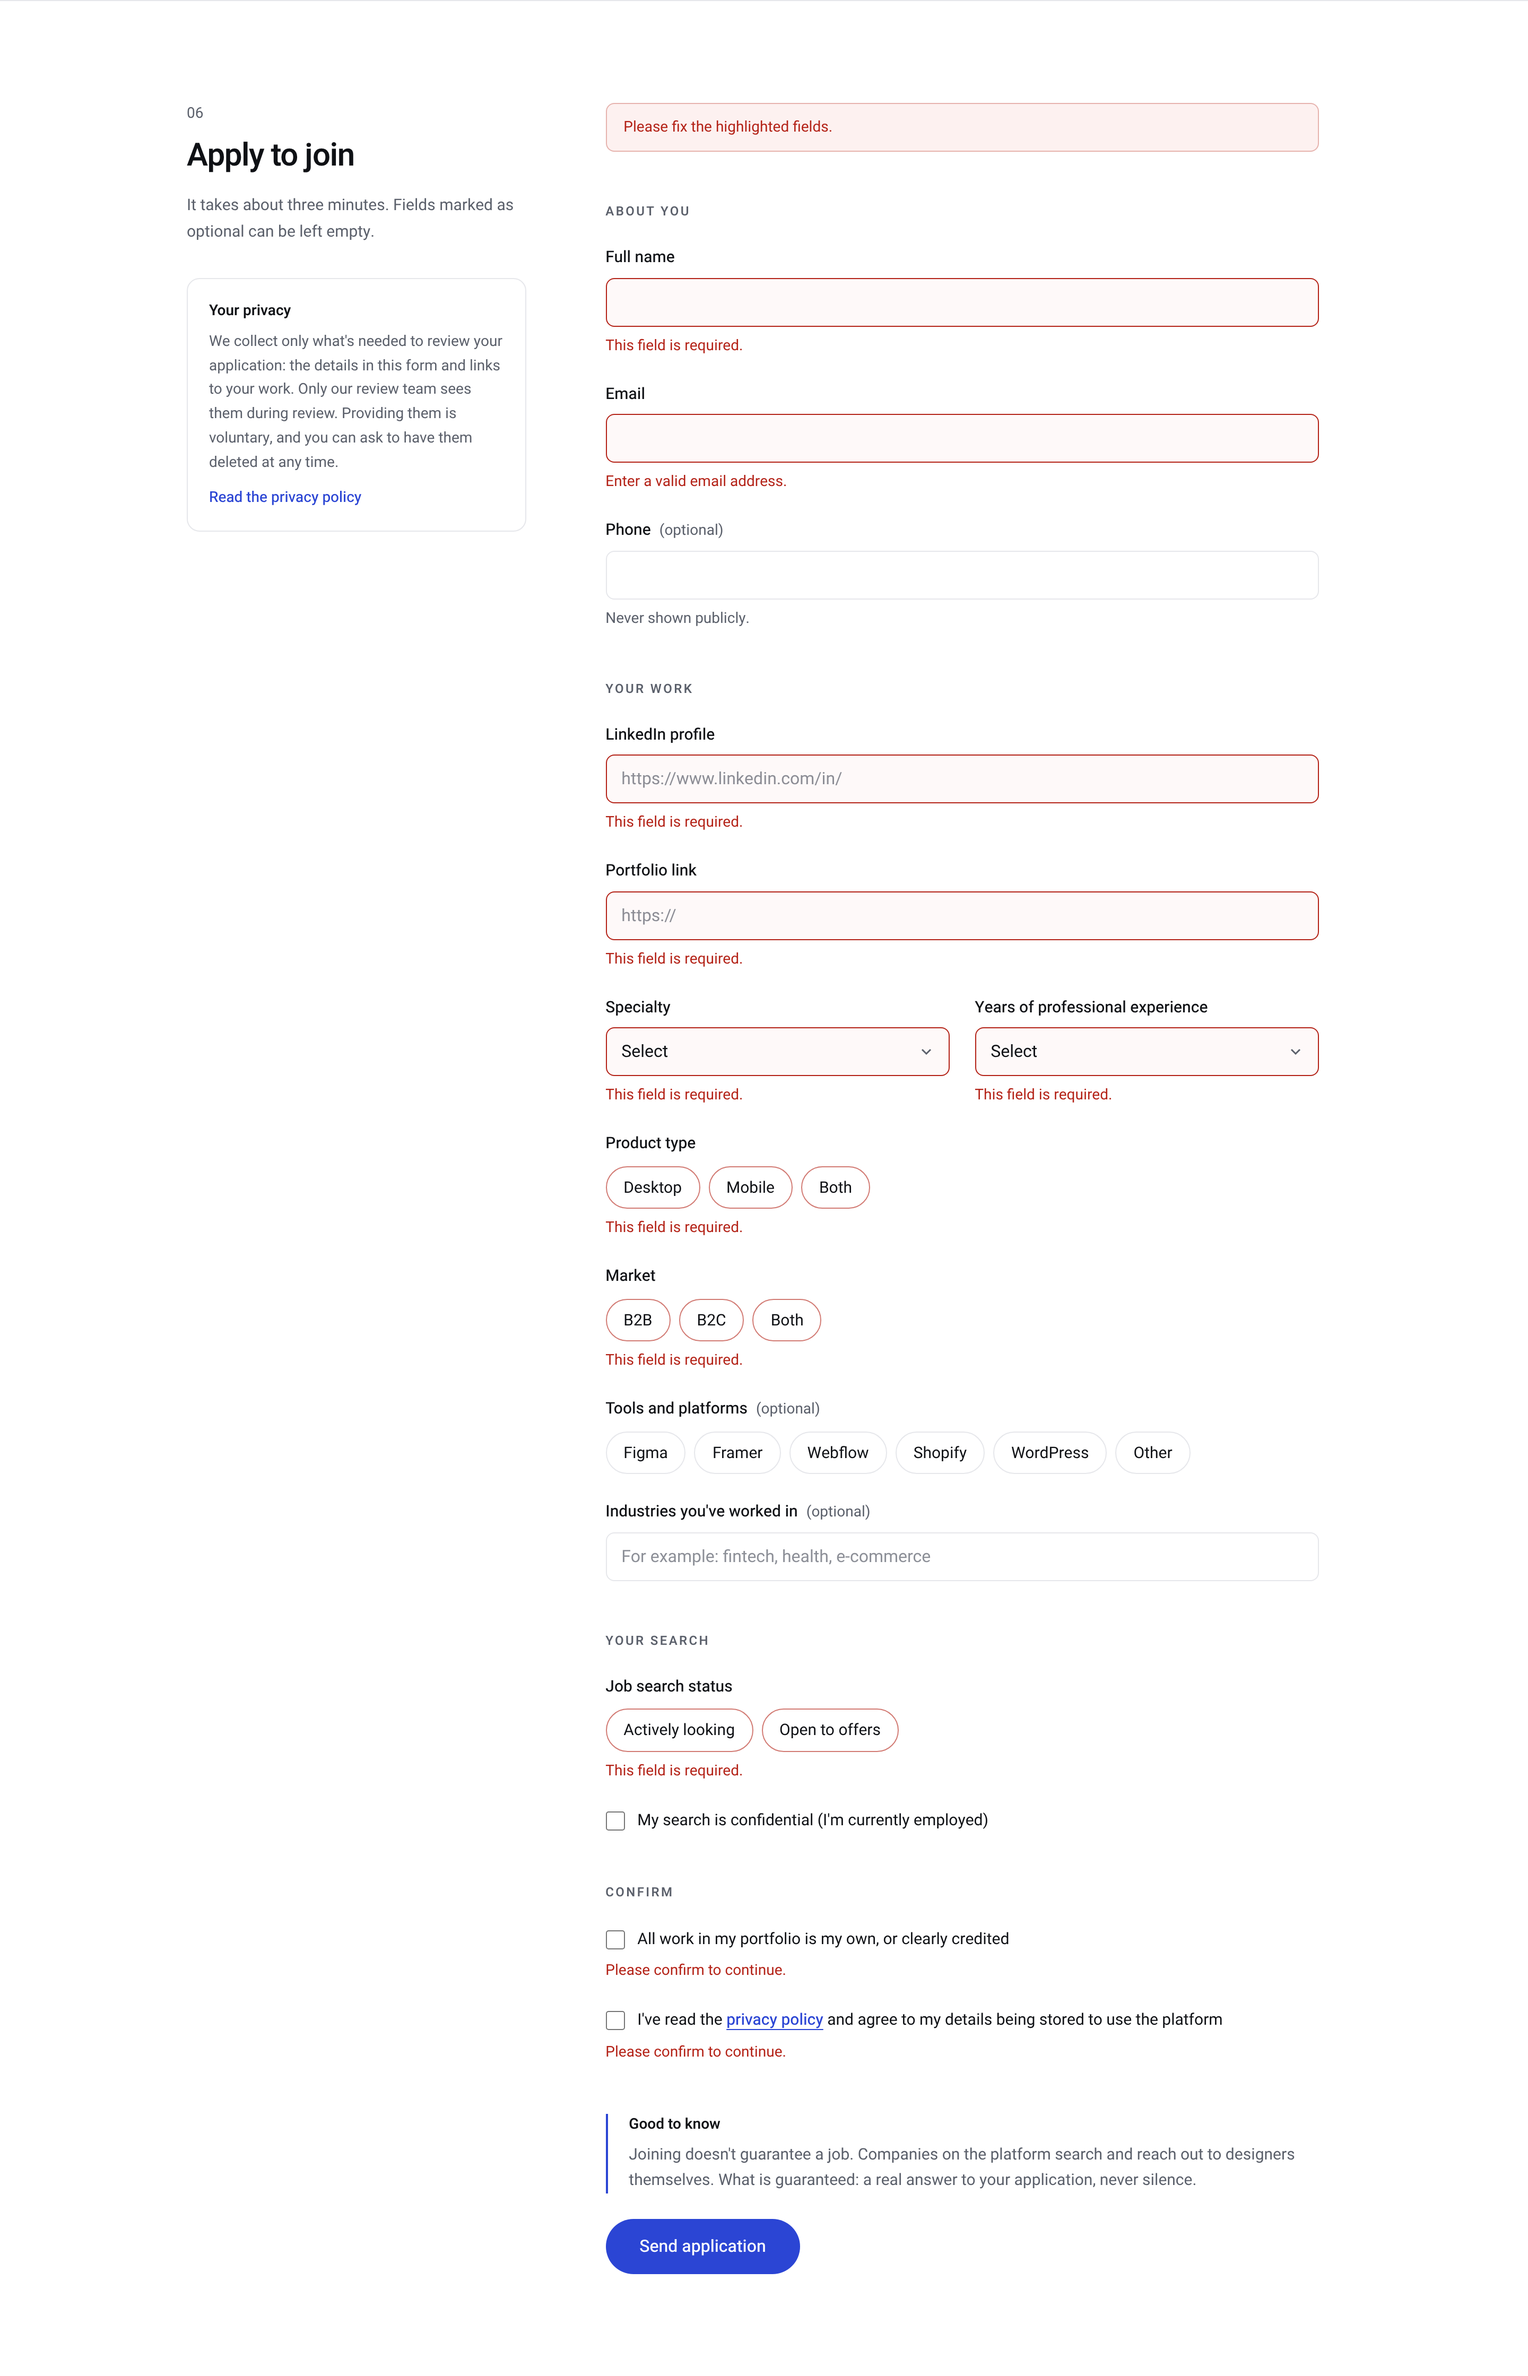
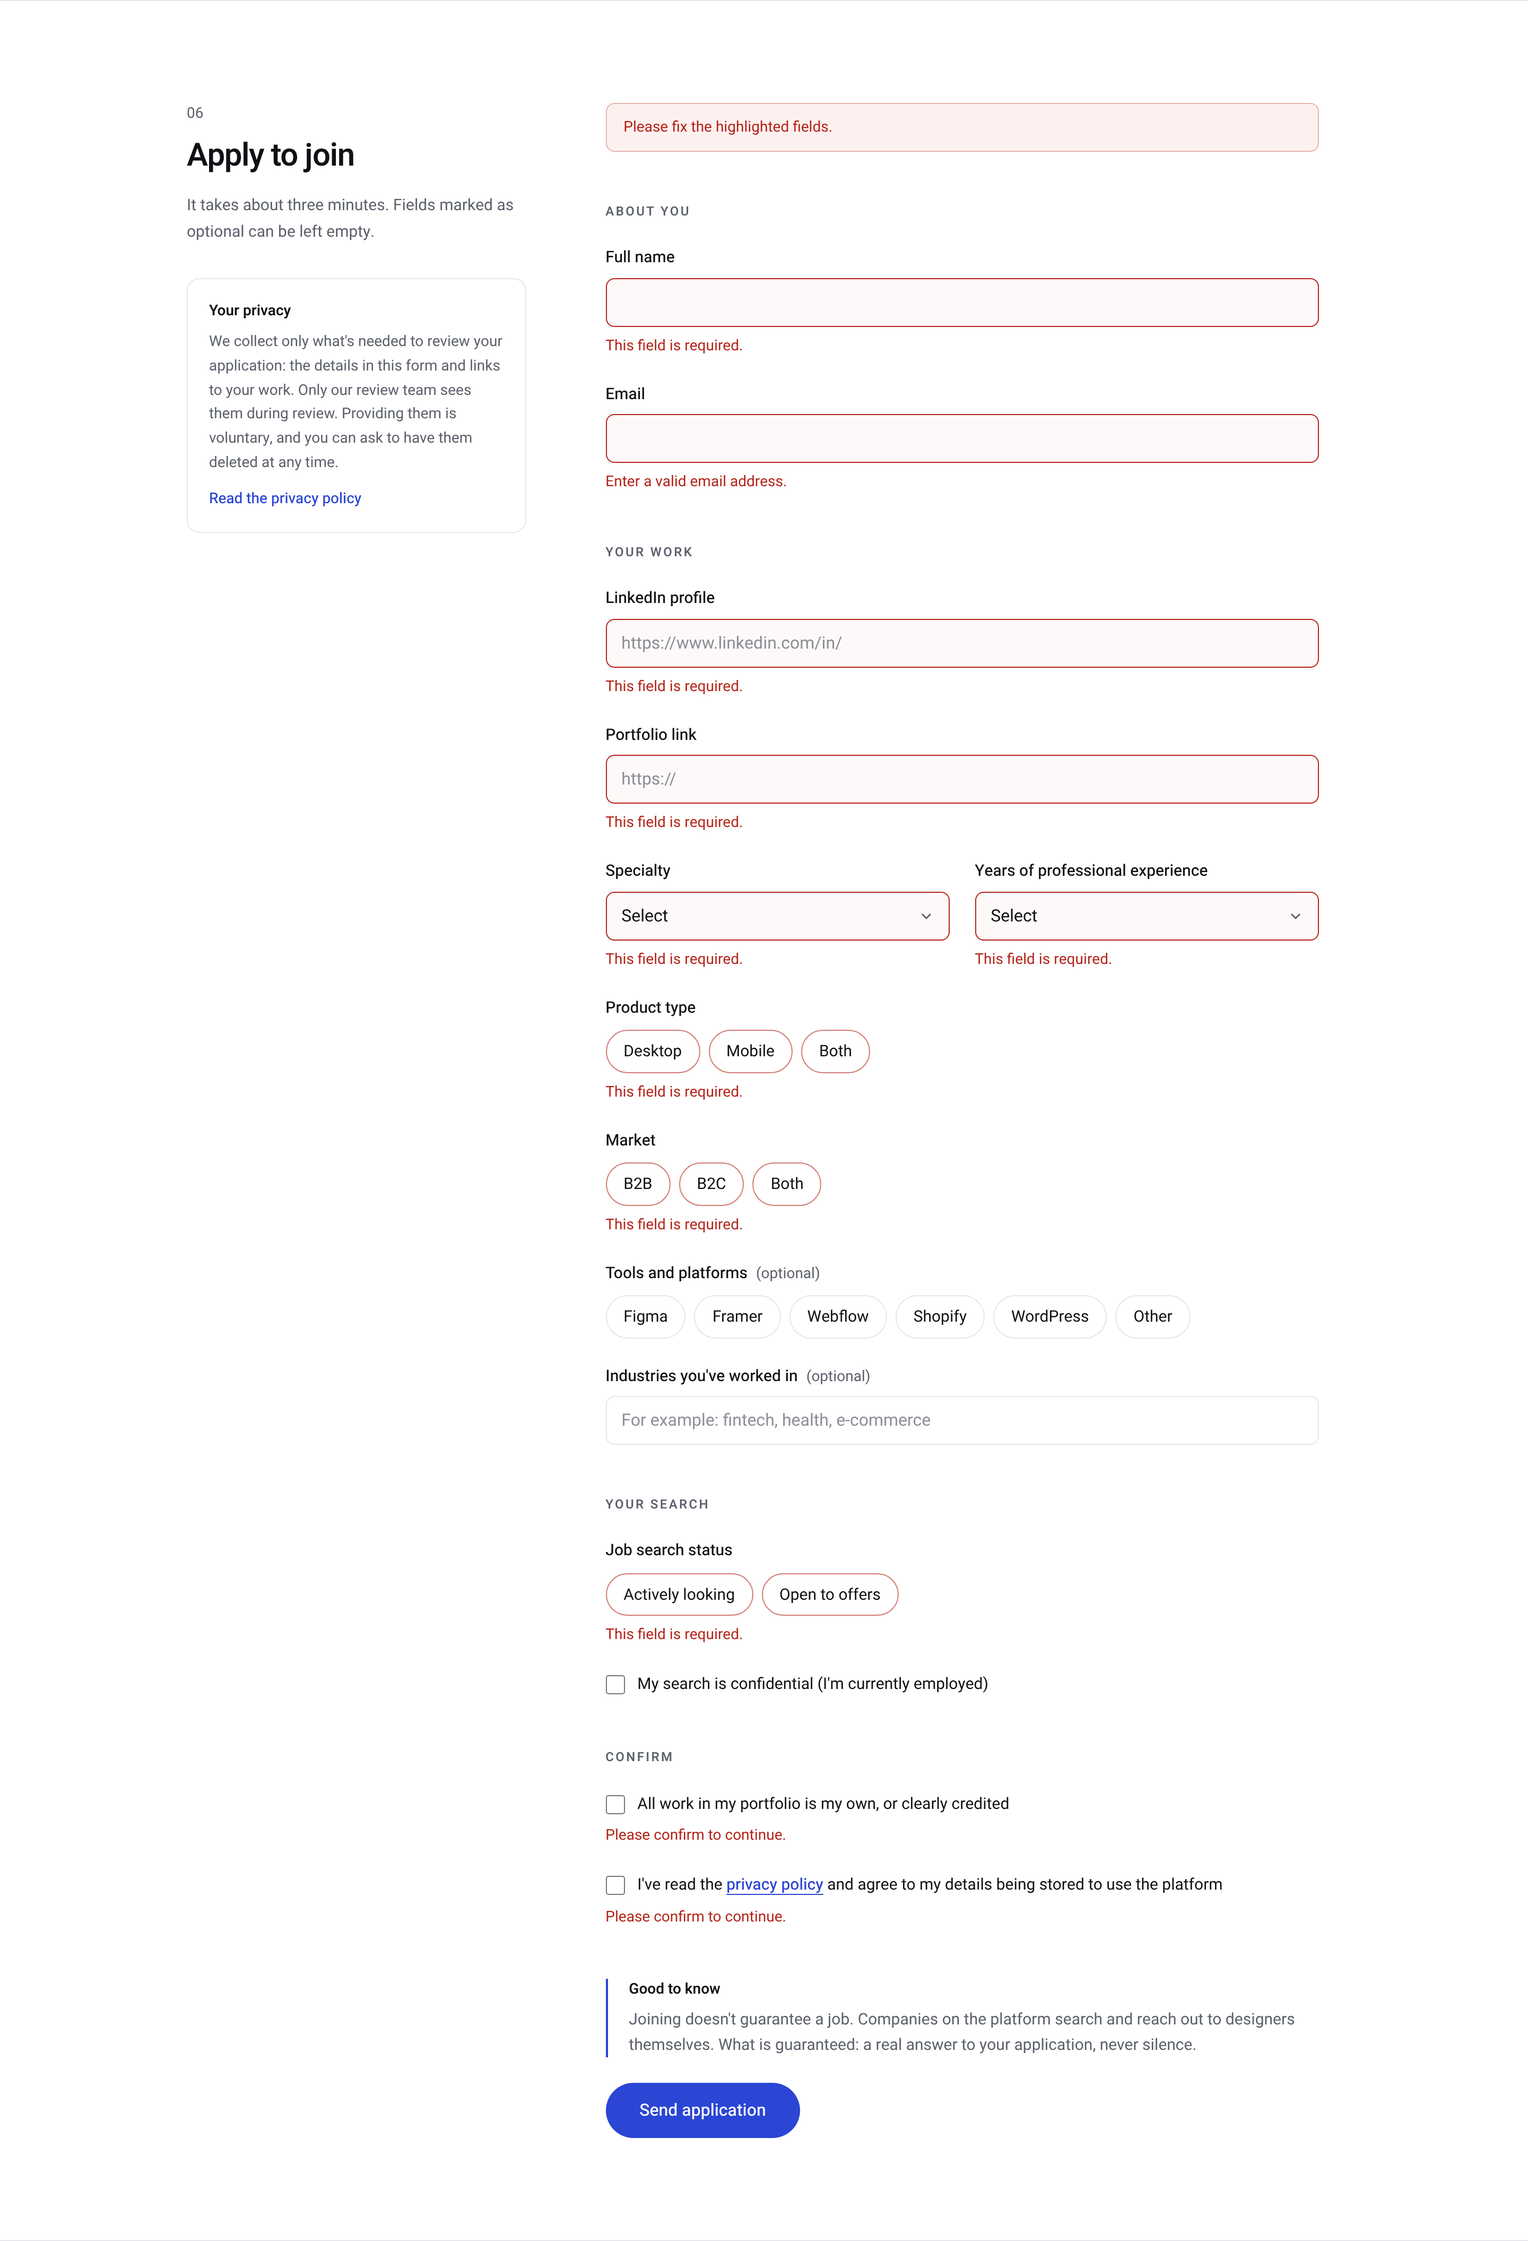
Drop the phone field from the application form
Phone stays an optional profile field for approved designers.

Claude-Session: https://claude.ai/code/session_0196WSr9f1eC6p38q1msxF84

diff --git a/src/components/application-form.tsx b/src/components/application-form.tsx
@@ -26,7 +26,6 @@ function readForm(form: HTMLFormElement) {
   return {
     full_name: text("full_name"),
     email: text("email"),
-    phone: text("phone"),
     linkedin_url: text("linkedin_url"),
     portfolio_url: text("portfolio_url"),
     specialty: text("specialty"),
@@ -98,16 +97,6 @@ export function ApplicationForm() {
       <Group title={t("groups.about")}>
         <TextField name="full_name" label={t("fields.full_name")} autoComplete="name" error={errorFor("full_name")} />
         <TextField name="email" type="email" label={t("fields.email")} autoComplete="email" dir="ltr" error={errorFor("email")} />
-        <TextField
-          name="phone"
-          type="tel"
-          label={t("fields.phone")}
-          optional={t("optional")}
-          hint={t("fields.phoneHint")}
-          autoComplete="tel"
-          dir="ltr"
-          error={errorFor("phone")}
-        />
       </Group>
 
       <Group title={t("groups.work")}>
@@ -222,7 +211,6 @@ const ERROR_KEYS: Record<string, true> = {
   required: true,
   tooLong: true,
   invalidEmail: true,
-  invalidPhone: true,
   invalidUrl: true,
   invalidLinkedin: true,
   mustAccept: true,

diff --git a/src/lib/validation/application.ts b/src/lib/validation/application.ts
@@ -40,13 +40,6 @@ const mustBeChecked = z.literal(true, { error: "mustAccept" });
 export const applicationSchema = z.object({
   full_name: z.string().trim().min(2, "required").max(120, "tooLong"),
   email: z.string().trim().toLowerCase().max(254, "tooLong").pipe(z.email("invalidEmail")),
-  phone: z
-    .string()
-    .trim()
-    .max(30, "tooLong")
-    .refine((value) => value === "" || /^[+\d][\d\s()-]{6,}$/.test(value), "invalidPhone")
-    .optional()
-    .transform((value) => value || null),
   linkedin_url: linkedinUrl,
   portfolio_url: httpUrl,
   specialty: z.enum(SPECIALTIES, { error: "required" }),

diff --git a/designer-network-spec.md b/designer-network-spec.md
@@ -35,7 +35,7 @@ Public copy speaks as "we" (a team of reviewers), never "I". This applies to the
 - Collect the minimum. No ID numbers, addresses, dates of birth, or resume file uploads.
 - Portfolio and LinkedIn are stored as links, not files.
 - Designers manage their own profile content and can delete their account at any time; deletion removes all their data (including stored images).
-- Phone is optional and never shown publicly.
+- Phone is not collected in the application form. Approved designers can add it in their profile if they want to; it is never shown publicly, and shown to employers only if they turn on "phone shown".
 - A clear privacy notice at signup (what's collected, why, who can see it, that it's voluntary, and how to request deletion).
 - Service role key only on the server. RLS on every table.
 
@@ -73,6 +73,7 @@ Short privacy page (copy below).
   - Availability: actively looking / open to offers / not looking
   - Confidential search toggle (hide name and photo from employers in phase 2)
   - Portfolio link, LinkedIn link
+  - Phone (optional)
   - Profile photo (optional, Supabase Storage)
   - Case studies: add, edit, reorder, delete. Each has title, short description (problem, process, outcome), cover image, optional external link, up to 6 images.
   - Contact preferences: email shown to employers yes/no, phone shown yes/no (default: no for both)
@@ -97,7 +98,6 @@ Short privacy page (copy below).
 |---|---|---|---|
 | full_name | Full name | text | yes |
 | email | Email | email | yes |
-| phone | Phone | tel | no |
 | linkedin_url | LinkedIn profile | url | yes |
 | portfolio_url | Portfolio link | url | yes |
 | specialty | Specialty | select: Product design / UX/UI / Web design / Brand / Other | yes |
